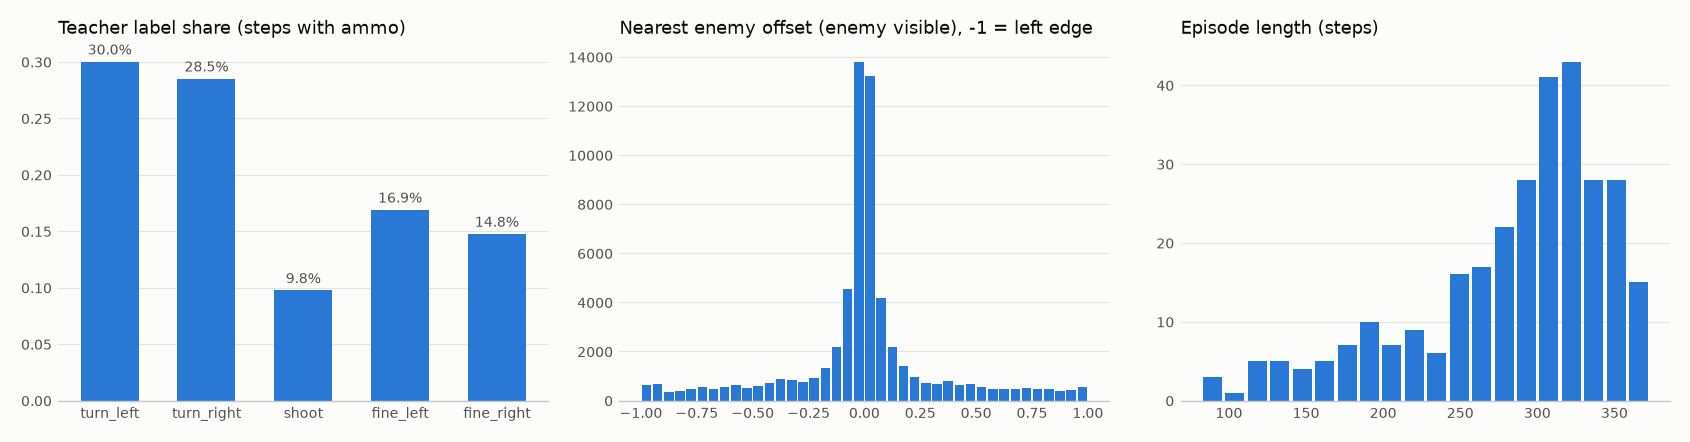
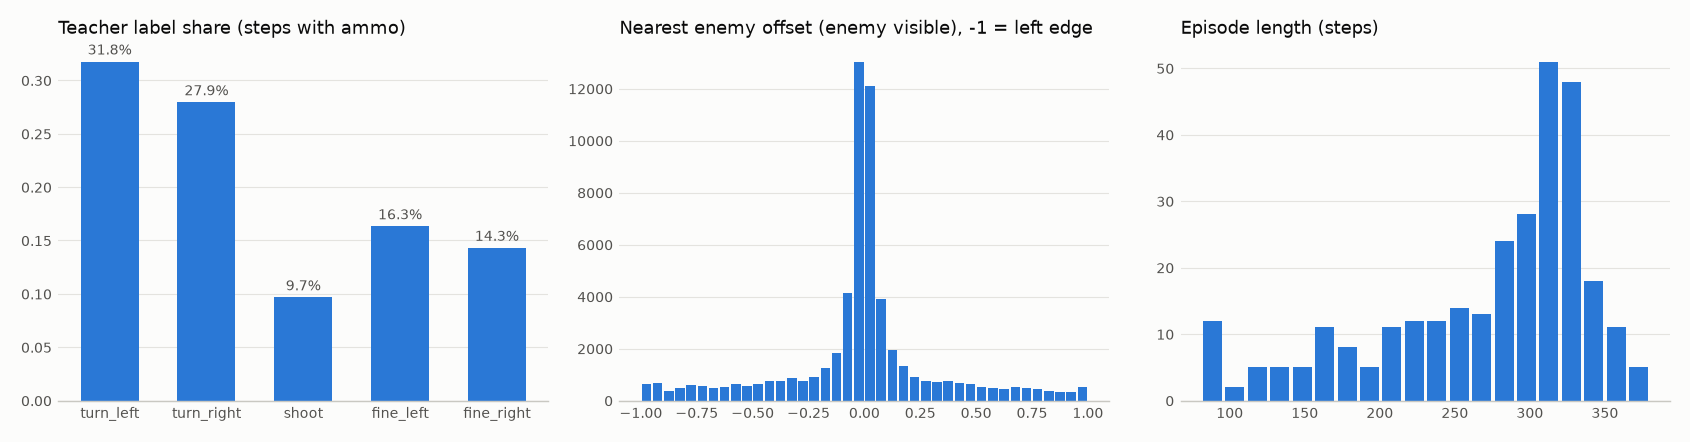
docs: Windows re-run of S1 teacher and S2 dataset

diff --git a/research_log.md b/research_log.md
@@ -128,3 +128,12 @@
   - bc0_noaux: 8.77, 21.17, 22.0 (эпохи 2–6).
   - bc0_w1.5: 10.87, 3.07, 16.1 (эпохи 2–6). Большие скачки между чекпойнтами, причина пока не ясна; посмотреть на Windows.
 - На Windows сначала повторить учителя и датасет и сравнить с Mac (ViZDoom не обещает одинаковую игру на разных ОС).
+
+## 2026-10-21, Windows: окружение, повтор S1 и S2
+- Окружение: Windows 11, RTX 3060 Ti 8 ГБ, драйвер CUDA 13.3. Python 3.12.14 через `uv` (в системе только 3.11). Сборки `torch==2.14.1+cu128` нет, поставлена `2.14.1+cu132`. Остальное по `requirements-lock.txt`. Тесты: 78 из 78.
+- Находка: ViZDoom на Windows ждал системный таймер (15.6 мс): шаг 640x480 занимал 32 мс при простаивающем процессоре. В `env.py` на Windows включается таймер 1 мс (`timeBeginPeriod(1)`): 5.5 мс на шаг. Эпизод seed 1000 с исправлением и без совпал бит в бит. Запись датасета: 8 мин вместо примерно часа. Коммит `acd37cb`.
+- Учитель (`python scripts/run_baselines.py`, 30 val seed): **22.67 [21.90, 23.23]** (Mac 22.60 [21.73, 23.27]), kills per shot 0.926 (0.923), 25.6 выстрела (25.6), нажатий 50.2 (64.7), длина 293 (300). Случайный агент −0.40 (0.00). Gate A по-прежнему пройден. Награда совпадает в пределах шума, но игра не бит-в-бит: число нажатий и длина отличаются.
+- Датасет R0 (`python -m doomagent.record --out data/train --set base`, 7 мин 56 с): 300 эпизодов, **81 193 шага** (Mac 85 064, −4.6%), средняя длина 270.6 (283.5), 1.7 ГБ.
+  - Доли меток по всем шагам: 0.291 / 0.254 / 0.163 / 0.155 / 0.138 (Mac 0.270 / 0.258 / 0.173 / 0.158 / 0.141).
+  - На шагах с патронами: 0.318 / 0.279 / 0.097 / 0.163 / 0.143 (Mac 0.300 / 0.285 / 0.098 / 0.169 / 0.148). Шаги с патронами 0.877 (0.862), враг виден 0.721 (0.731).
+  - Расхождения небольшие, тот же код и те же seed: ViZDoom не обещает одинаковую игру на разных ОС. Дальше всё считается на датасете Windows. `reports/dataset_train.*` и `artifacts/mask_train.png` пересчитаны на Windows; `reports/s2_dataset.md` оставлен как запись Mac.

diff --git a/reports/dataset_train.md b/reports/dataset_train.md
@@ -1,8 +1,8 @@
 # Dataset report: data/train
 
-- episodes: 300, steps: 85064, mean episode length: 283.5
-- action share (turn_left / turn_right / shoot / fine_left / fine_right): 0.270 / 0.258 / 0.173 / 0.158 / 0.141
-- action share on steps with ammo, which the action loss sees: 0.300 / 0.285 / 0.098 / 0.169 / 0.148
-- share of steps with ammo (valid): 0.862
-- share of steps with a visible enemy: 0.731
+- episodes: 300, steps: 81193, mean episode length: 270.6
+- action share (turn_left / turn_right / shoot / fine_left / fine_right): 0.291 / 0.254 / 0.163 / 0.155 / 0.138
+- action share on steps with ammo, which the action loss sees: 0.318 / 0.279 / 0.097 / 0.163 / 0.143
+- share of steps with ammo (valid): 0.877
+- share of steps with a visible enemy: 0.721
 - episodes per variant: {"base": 300}

diff --git a/reports/s1_teacher.md b/reports/s1_teacher.md
@@ -2,5 +2,5 @@
 
 | model | reward mean [95% CI] | vs teacher [95% CI] | kills/shot | shots | presses | idle rate | length | latency ms |
 | --- | --- | --- | --- | --- | --- | --- | --- | --- |
-| teacher | 22.60 [21.73, 23.27] | - | 0.923 | 25.6 | 64.7 | 0.00 | 300 | - |
-| random | 0.00 [-0.33, 0.33] | - | 0.092 | 10.8 | 16.9 | 0.00 | 82 | - |
+| teacher | 22.67 [21.90, 23.23] | - | 0.926 | 25.6 | 50.2 | 0.00 | 293 | - |
+| random | -0.40 [-0.67, -0.13] | - | 0.063 | 9.5 | 15.2 | 0.00 | 72 | - |
